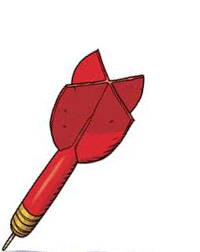
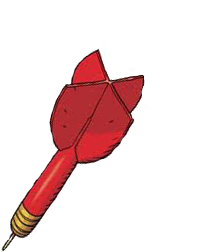
Skined the menu, and updated the dart.png file to look better.

diff --git a/js/app/view/layout.js b/js/app/view/layout.js
@@ -1,4 +1,5 @@
 /* Handles the sizing and layout of screen elements */
+// TODO: See if we can move allot of this JS to CSS3*/
 Layout = function() {
     this.dartLocation = document.getElementById('dart-location-box');
     this.chalkBoard   = document.getElementById('chalk-board');
@@ -28,10 +29,10 @@ Layout.prototype.onResize = function() {
         var chalkBoardLeft = dartBoardLeft + dartBoardWidth + (width * (1/10));
         var chalkBoardTop = dartBoardTop + (dartBoardHeight * (2/10));
 
-        var menuWidth = dartBoardWidth * (6/10);
+        var menuWidth = dartBoardWidth * (7/10);
         var menuHeight = menuWidth;
-        var menuLeft = dartBoardLeft + (dartBoardLeft * (8/10));
-        var menuTop = dartBoardTop + (dartBoardWidth * (2/10));
+        var menuLeft = dartBoardLeft + (dartBoardLeft * (7/10));
+        var menuTop = dartBoardTop + (dartBoardWidth * (1/10));
     } else { //Portrait
         var dartBoardWidth = Math.min(width * (8/10), height * (6/10));
         var dartBoardHeight = dartBoardWidth;

diff --git a/css/menu.css b/css/menu.css
@@ -2,9 +2,15 @@
     font-family: Leah;
     font-weight: bold;
     position: absolute;
-    background-color: yellow;
+    background-image: url('../img/post-it.png');
+    background-size: 100% 100%;
     text-align: center;
     font-size: 5mm;
+}
+
+#menu-text-space {
+    width: 0px;
+    height: 22%;
 }
 
 #menu-button {

diff --git a/index.html b/index.html
@@ -161,6 +161,7 @@
 
 
             <div id="menu">
+                <div id="menu-text-space"></div>
                 <h1>Menu</h1>
                 <div onclick="newGame();">New Game</div>
                 <div onclick="layout.toggleMenu();">Resume Game</div>
